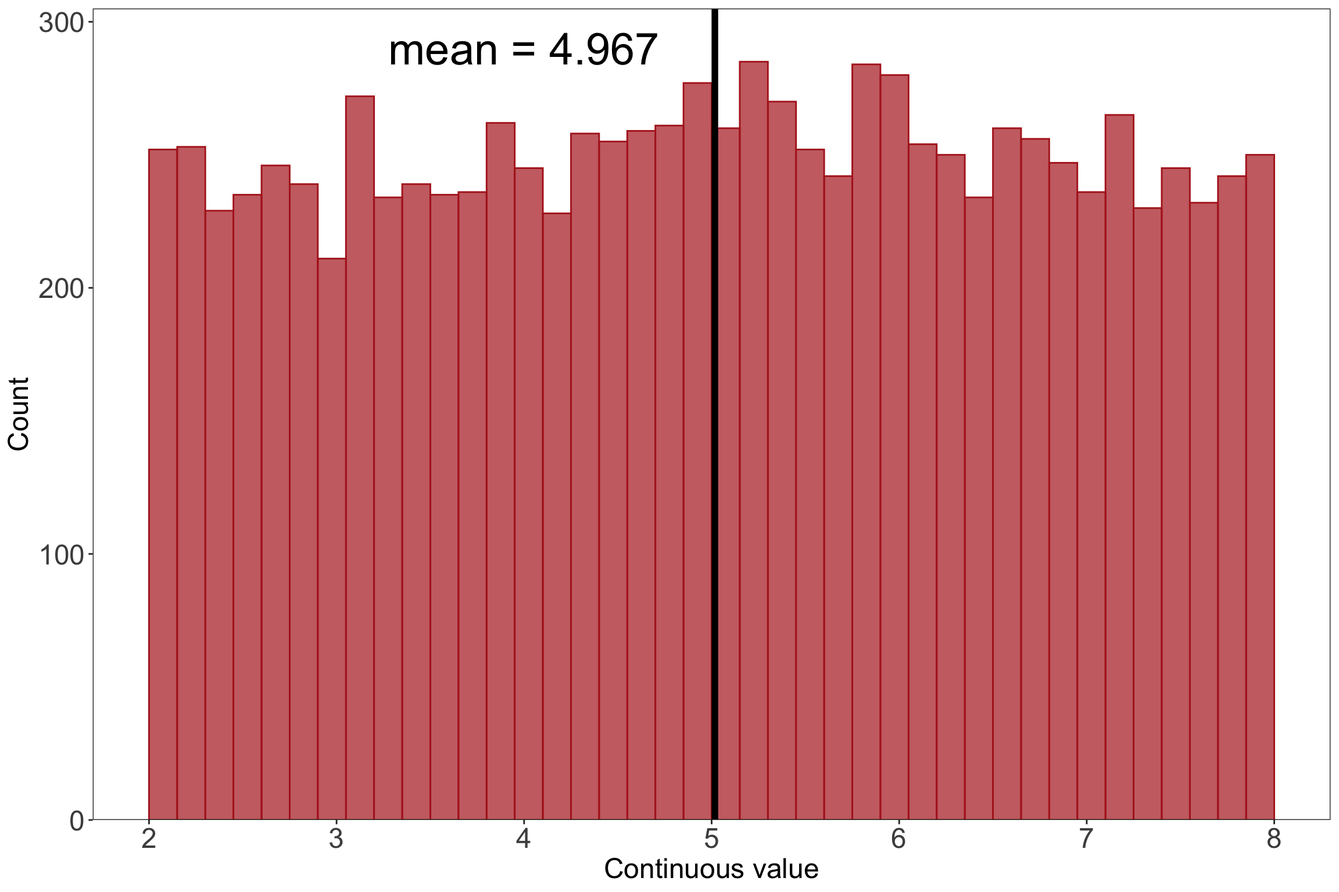
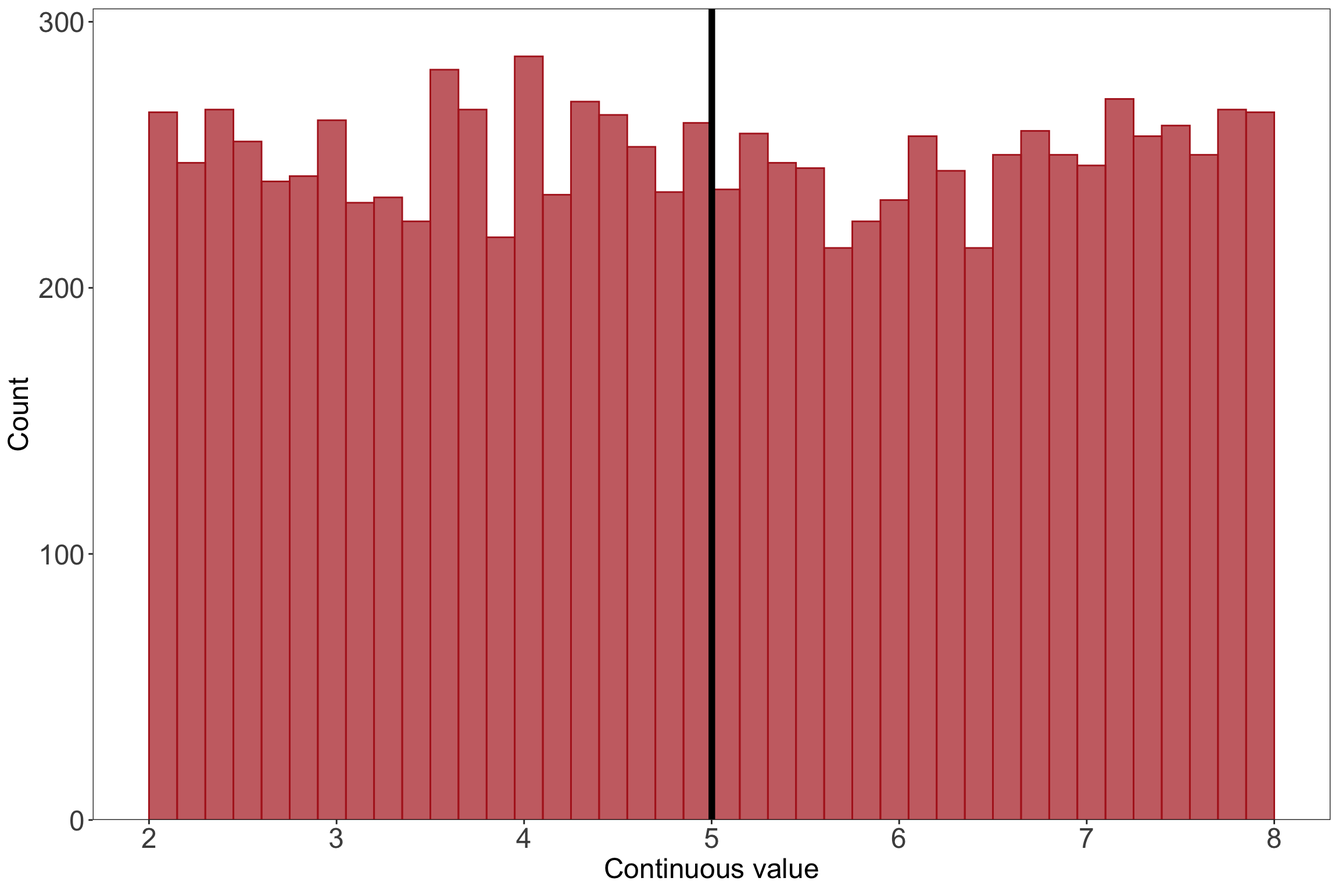
updating steps

Changed region(s): [[0.0938, 0.0312, 0.9688, 0.3125], [0.7188, 0.2188, 0.75, 0.2812], [0.8125, 0.0938, 0.8438, 0.125]]

diff --git a/docs/assignments/optional-problem-01.html b/docs/assignments/optional-problem-01.html
@@ -218,7 +218,9 @@ pre > code.sourceCode > span > a:first-child::before { text-decoration: underlin
 <ol type="1">
 <li>Create a script or Quarto document to work in.<br>
 </li>
-<li>Copy/paste the code in the Set up code chunk into your script.<br>
+<li>Copy/paste the code in the Set up code chunk into your script. Run the code.<br>
+</li>
+<li>Calculate the population mean. Store this as an object.<br>
 </li>
 <li>Find the function that allows you to “sample” from a vector of numbers. If you don’t know the function, one google search could be “r sample numbers”.<br>
 </li>
@@ -226,7 +228,7 @@ pre > code.sourceCode > span > a:first-child::before { text-decoration: underlin
 </li>
 <li>Calculate the mean every time you take a sample. Store each mean in a list.<br>
 </li>
-<li>Create a histogram of your sample means.<br>
+<li>Create a histogram of your sample means using the list from step 6.<br>
 </li>
 <li>Repeat steps 2-5 for n = 15, and n = 30.</li>
 </ol>
@@ -240,7 +242,7 @@ pre > code.sourceCode > span > a:first-child::before { text-decoration: underlin
 </div>
 </div>
 <div class="callout-body-container callout-body">
-<p>Doing repetitive tasks like steps 4-5 can get tiresome. For that, you can write what’s called a <code>for()</code> loop. One resource for writing <code>for()</code> loops is in the <a href="https://r4ds.had.co.nz/iteration.html">chapter on Iteration</a> in <em>R for Data Science</em>.</p>
+<p>Doing repetitive tasks like steps 5-6 can get tiresome. For that, you can write what’s called a <code>for()</code> loop. One resource for writing <code>for()</code> loops is in the <a href="https://r4ds.had.co.nz/iteration.html">chapter on Iteration</a> in <em>R for Data Science</em>.</p>
 <p>If you write a <code>for()</code> loop, you can resample your population way more times than 20. Try resampling 100 times.</p>
 </div>
 </div>
@@ -262,24 +264,26 @@ pre > code.sourceCode > span > a:first-child::before { text-decoration: underlin
 ✖ dplyr::lag()    masks stats::lag()
 ℹ Use the conflicted package (&lt;http://conflicted.r-lib.org/&gt;) to force all conflicts to become errors</code></pre>
 </div>
-<div class="sourceCode cell-code" id="cb3"><pre class="sourceCode r code-with-copy"><code class="sourceCode r"><span id="cb3-1"><a href="#cb3-1" aria-hidden="true" tabindex="-1"></a><span class="co"># generate 10000 numbers from a uniform distribution for the population</span></span>
-<span id="cb3-2"><a href="#cb3-2" aria-hidden="true" tabindex="-1"></a>uniform <span class="ot">&lt;-</span> <span class="fu">runif</span>(<span class="dv">10000</span>, <span class="at">min =</span> <span class="dv">2</span>, <span class="at">max =</span> <span class="dv">8</span>)</span>
+<div class="sourceCode cell-code" id="cb3"><pre class="sourceCode r code-with-copy"><code class="sourceCode r"><span id="cb3-1"><a href="#cb3-1" aria-hidden="true" tabindex="-1"></a><span class="co"># set seed: makes sure the "random" generation comes up with the same combination of numbers every time</span></span>
+<span id="cb3-2"><a href="#cb3-2" aria-hidden="true" tabindex="-1"></a><span class="fu">set.seed</span>(<span class="dv">1</span>)</span>
 <span id="cb3-3"><a href="#cb3-3" aria-hidden="true" tabindex="-1"></a></span>
-<span id="cb3-4"><a href="#cb3-4" aria-hidden="true" tabindex="-1"></a><span class="co"># turn the vector into a data frame</span></span>
-<span id="cb3-5"><a href="#cb3-5" aria-hidden="true" tabindex="-1"></a>uniformdf <span class="ot">&lt;-</span> <span class="fu">as.data.frame</span>(uniform)</span>
+<span id="cb3-4"><a href="#cb3-4" aria-hidden="true" tabindex="-1"></a><span class="co"># generate 10000 numbers from a uniform distribution for the population</span></span>
+<span id="cb3-5"><a href="#cb3-5" aria-hidden="true" tabindex="-1"></a>uniform <span class="ot">&lt;-</span> <span class="fu">runif</span>(<span class="dv">10000</span>, <span class="at">min =</span> <span class="dv">2</span>, <span class="at">max =</span> <span class="dv">8</span>)</span>
 <span id="cb3-6"><a href="#cb3-6" aria-hidden="true" tabindex="-1"></a></span>
-<span id="cb3-7"><a href="#cb3-7" aria-hidden="true" tabindex="-1"></a><span class="co"># make a histogram for the population</span></span>
-<span id="cb3-8"><a href="#cb3-8" aria-hidden="true" tabindex="-1"></a><span class="fu">ggplot</span>(uniformdf, <span class="fu">aes</span>(<span class="at">x =</span> uniform)) <span class="sc">+</span></span>
-<span id="cb3-9"><a href="#cb3-9" aria-hidden="true" tabindex="-1"></a>  <span class="fu">geom_histogram</span>(<span class="at">breaks =</span> <span class="fu">seq</span>(<span class="dv">2</span>, <span class="dv">8</span>, <span class="at">length.out =</span> <span class="dv">41</span>), <span class="at">fill =</span> <span class="st">"firebrick"</span>, <span class="at">alpha =</span> <span class="fl">0.7</span>, <span class="at">color =</span> <span class="st">"firebrick"</span>) <span class="sc">+</span></span>
-<span id="cb3-10"><a href="#cb3-10" aria-hidden="true" tabindex="-1"></a>  <span class="fu">geom_vline</span>(<span class="at">xintercept =</span> <span class="fu">mean</span>(uniform), <span class="at">linewidth =</span> <span class="dv">2</span>) <span class="sc">+</span></span>
-<span id="cb3-11"><a href="#cb3-11" aria-hidden="true" tabindex="-1"></a>  <span class="fu">annotate</span>(<span class="st">"text"</span>, <span class="at">x =</span> <span class="dv">4</span>, <span class="at">y =</span> <span class="dv">290</span>, <span class="at">label =</span> <span class="st">"mean = 4.967"</span>, <span class="at">size =</span> <span class="dv">10</span>) <span class="sc">+</span></span>
-<span id="cb3-12"><a href="#cb3-12" aria-hidden="true" tabindex="-1"></a>  <span class="fu">scale_x_continuous</span>(<span class="at">breaks =</span> <span class="fu">seq</span>(<span class="at">from =</span> <span class="dv">2</span>, <span class="at">to =</span> <span class="dv">8</span>, <span class="at">by =</span> <span class="dv">1</span>)) <span class="sc">+</span></span>
-<span id="cb3-13"><a href="#cb3-13" aria-hidden="true" tabindex="-1"></a>  <span class="fu">scale_y_continuous</span>(<span class="at">expand =</span> <span class="fu">c</span>(<span class="dv">0</span>, <span class="dv">0</span>), <span class="at">limits =</span> <span class="fu">c</span>(<span class="dv">0</span>, <span class="dv">305</span>)) <span class="sc">+</span></span>
-<span id="cb3-14"><a href="#cb3-14" aria-hidden="true" tabindex="-1"></a>  <span class="fu">labs</span>(<span class="at">x =</span> <span class="st">"Continuous value"</span>, <span class="at">y =</span> <span class="st">"Count"</span>) <span class="sc">+</span></span>
-<span id="cb3-15"><a href="#cb3-15" aria-hidden="true" tabindex="-1"></a>  <span class="fu">theme_bw</span>() <span class="sc">+</span></span>
-<span id="cb3-16"><a href="#cb3-16" aria-hidden="true" tabindex="-1"></a>  <span class="fu">theme</span>(<span class="at">panel.grid =</span> <span class="fu">element_blank</span>(),</span>
-<span id="cb3-17"><a href="#cb3-17" aria-hidden="true" tabindex="-1"></a>        <span class="at">axis.text =</span> <span class="fu">element_text</span>(<span class="at">size =</span> <span class="dv">18</span>),</span>
-<span id="cb3-18"><a href="#cb3-18" aria-hidden="true" tabindex="-1"></a>        <span class="at">axis.title =</span> <span class="fu">element_text</span>(<span class="at">size =</span> <span class="dv">18</span>))</span></code><button title="Copy to Clipboard" class="code-copy-button"><i class="bi"></i></button></pre></div>
+<span id="cb3-7"><a href="#cb3-7" aria-hidden="true" tabindex="-1"></a><span class="co"># turn the vector into a data frame</span></span>
+<span id="cb3-8"><a href="#cb3-8" aria-hidden="true" tabindex="-1"></a>uniformdf <span class="ot">&lt;-</span> <span class="fu">as.data.frame</span>(uniform)</span>
+<span id="cb3-9"><a href="#cb3-9" aria-hidden="true" tabindex="-1"></a></span>
+<span id="cb3-10"><a href="#cb3-10" aria-hidden="true" tabindex="-1"></a><span class="co"># make a histogram for the population</span></span>
+<span id="cb3-11"><a href="#cb3-11" aria-hidden="true" tabindex="-1"></a><span class="fu">ggplot</span>(uniformdf, <span class="fu">aes</span>(<span class="at">x =</span> uniform)) <span class="sc">+</span></span>
+<span id="cb3-12"><a href="#cb3-12" aria-hidden="true" tabindex="-1"></a>  <span class="fu">geom_histogram</span>(<span class="at">breaks =</span> <span class="fu">seq</span>(<span class="dv">2</span>, <span class="dv">8</span>, <span class="at">length.out =</span> <span class="dv">41</span>), <span class="at">fill =</span> <span class="st">"firebrick"</span>, <span class="at">alpha =</span> <span class="fl">0.7</span>, <span class="at">color =</span> <span class="st">"firebrick"</span>) <span class="sc">+</span></span>
+<span id="cb3-13"><a href="#cb3-13" aria-hidden="true" tabindex="-1"></a>  <span class="fu">geom_vline</span>(<span class="at">xintercept =</span> <span class="fu">mean</span>(uniform), <span class="at">linewidth =</span> <span class="dv">2</span>) <span class="sc">+</span></span>
+<span id="cb3-14"><a href="#cb3-14" aria-hidden="true" tabindex="-1"></a>  <span class="fu">scale_x_continuous</span>(<span class="at">breaks =</span> <span class="fu">seq</span>(<span class="at">from =</span> <span class="dv">2</span>, <span class="at">to =</span> <span class="dv">8</span>, <span class="at">by =</span> <span class="dv">1</span>)) <span class="sc">+</span></span>
+<span id="cb3-15"><a href="#cb3-15" aria-hidden="true" tabindex="-1"></a>  <span class="fu">scale_y_continuous</span>(<span class="at">expand =</span> <span class="fu">c</span>(<span class="dv">0</span>, <span class="dv">0</span>), <span class="at">limits =</span> <span class="fu">c</span>(<span class="dv">0</span>, <span class="dv">305</span>)) <span class="sc">+</span></span>
+<span id="cb3-16"><a href="#cb3-16" aria-hidden="true" tabindex="-1"></a>  <span class="fu">labs</span>(<span class="at">x =</span> <span class="st">"Continuous value"</span>, <span class="at">y =</span> <span class="st">"Count"</span>) <span class="sc">+</span></span>
+<span id="cb3-17"><a href="#cb3-17" aria-hidden="true" tabindex="-1"></a>  <span class="fu">theme_bw</span>() <span class="sc">+</span></span>
+<span id="cb3-18"><a href="#cb3-18" aria-hidden="true" tabindex="-1"></a>  <span class="fu">theme</span>(<span class="at">panel.grid =</span> <span class="fu">element_blank</span>(),</span>
+<span id="cb3-19"><a href="#cb3-19" aria-hidden="true" tabindex="-1"></a>        <span class="at">axis.text =</span> <span class="fu">element_text</span>(<span class="at">size =</span> <span class="dv">18</span>),</span>
+<span id="cb3-20"><a href="#cb3-20" aria-hidden="true" tabindex="-1"></a>        <span class="at">axis.title =</span> <span class="fu">element_text</span>(<span class="at">size =</span> <span class="dv">18</span>))</span></code><button title="Copy to Clipboard" class="code-copy-button"><i class="bi"></i></button></pre></div>
 <div class="cell-output-display">
 <div>
 <figure class="figure">
@@ -776,51 +780,54 @@ window.document.addEventListener("DOMContentLoaded", function (event) {
 <span id="cb4-18"><a href="#cb4-18" aria-hidden="true" tabindex="-1"></a><span class="fu">### a. Steps</span></span>
 <span id="cb4-19"><a href="#cb4-19" aria-hidden="true" tabindex="-1"></a></span>
 <span id="cb4-20"><a href="#cb4-20" aria-hidden="true" tabindex="-1"></a><span class="ss">1. </span>Create a script or Quarto document to work in.  </span>
-<span id="cb4-21"><a href="#cb4-21" aria-hidden="true" tabindex="-1"></a><span class="ss">2. </span>Copy/paste the code in the Set up code chunk into your script.  </span>
-<span id="cb4-22"><a href="#cb4-22" aria-hidden="true" tabindex="-1"></a><span class="ss">3. </span>Find the function that allows you to "sample" from a vector of numbers. If you don't know the function, one google search could be "r sample numbers".  </span>
-<span id="cb4-23"><a href="#cb4-23" aria-hidden="true" tabindex="-1"></a><span class="ss">4. </span>Resample (i.e. take a sample multiple times) 20 times from the population, taking a sample of n = 2 each time.  </span>
-<span id="cb4-24"><a href="#cb4-24" aria-hidden="true" tabindex="-1"></a><span class="ss">5. </span>Calculate the mean every time you take a sample. Store each mean in a list.  </span>
-<span id="cb4-25"><a href="#cb4-25" aria-hidden="true" tabindex="-1"></a><span class="ss">6. </span>Create a histogram of your sample means.  </span>
-<span id="cb4-26"><a href="#cb4-26" aria-hidden="true" tabindex="-1"></a><span class="ss">7. </span>Repeat steps 2-5 for n = 15, and n = 30.</span>
-<span id="cb4-27"><a href="#cb4-27" aria-hidden="true" tabindex="-1"></a></span>
-<span id="cb4-28"><a href="#cb4-28" aria-hidden="true" tabindex="-1"></a>:::{.callout-tip}</span>
-<span id="cb4-29"><a href="#cb4-29" aria-hidden="true" tabindex="-1"></a><span class="fu"># `for()` loops</span></span>
-<span id="cb4-30"><a href="#cb4-30" aria-hidden="true" tabindex="-1"></a></span>
-<span id="cb4-31"><a href="#cb4-31" aria-hidden="true" tabindex="-1"></a>Doing repetitive tasks like steps 4-5 can get tiresome. For that, you can write what's called a <span class="in">`for()`</span> loop. One resource for writing <span class="in">`for()`</span> loops is in the <span class="co">[</span><span class="ot">chapter on Iteration</span><span class="co">](https://r4ds.had.co.nz/iteration.html)</span> in _R for Data Science_.  </span>
-<span id="cb4-32"><a href="#cb4-32" aria-hidden="true" tabindex="-1"></a></span>
-<span id="cb4-33"><a href="#cb4-33" aria-hidden="true" tabindex="-1"></a>If you write a <span class="in">`for()`</span> loop, you can resample your population way more times than 20. Try resampling 100 times.</span>
-<span id="cb4-34"><a href="#cb4-34" aria-hidden="true" tabindex="-1"></a>:::</span>
-<span id="cb4-35"><a href="#cb4-35" aria-hidden="true" tabindex="-1"></a></span>
-<span id="cb4-36"><a href="#cb4-36" aria-hidden="true" tabindex="-1"></a><span class="fu">### b. Set up code</span></span>
-<span id="cb4-37"><a href="#cb4-37" aria-hidden="true" tabindex="-1"></a></span>
-<span id="cb4-40"><a href="#cb4-40" aria-hidden="true" tabindex="-1"></a><span class="in">```{r}</span></span>
-<span id="cb4-41"><a href="#cb4-41" aria-hidden="true" tabindex="-1"></a><span class="co">#| fig-width: 12</span></span>
-<span id="cb4-42"><a href="#cb4-42" aria-hidden="true" tabindex="-1"></a><span class="co">#| fig-height: 8</span></span>
-<span id="cb4-43"><a href="#cb4-43" aria-hidden="true" tabindex="-1"></a></span>
-<span id="cb4-44"><a href="#cb4-44" aria-hidden="true" tabindex="-1"></a><span class="co"># read in the tidyverse</span></span>
-<span id="cb4-45"><a href="#cb4-45" aria-hidden="true" tabindex="-1"></a><span class="fu">library</span>(tidyverse)</span>
-<span id="cb4-46"><a href="#cb4-46" aria-hidden="true" tabindex="-1"></a></span>
-<span id="cb4-47"><a href="#cb4-47" aria-hidden="true" tabindex="-1"></a><span class="co"># generate 10000 numbers from a uniform distribution for the population</span></span>
-<span id="cb4-48"><a href="#cb4-48" aria-hidden="true" tabindex="-1"></a>uniform <span class="ot">&lt;-</span> <span class="fu">runif</span>(<span class="dv">10000</span>, <span class="at">min =</span> <span class="dv">2</span>, <span class="at">max =</span> <span class="dv">8</span>)</span>
-<span id="cb4-49"><a href="#cb4-49" aria-hidden="true" tabindex="-1"></a></span>
-<span id="cb4-50"><a href="#cb4-50" aria-hidden="true" tabindex="-1"></a><span class="co"># turn the vector into a data frame</span></span>
-<span id="cb4-51"><a href="#cb4-51" aria-hidden="true" tabindex="-1"></a>uniformdf <span class="ot">&lt;-</span> <span class="fu">as.data.frame</span>(uniform)</span>
-<span id="cb4-52"><a href="#cb4-52" aria-hidden="true" tabindex="-1"></a></span>
-<span id="cb4-53"><a href="#cb4-53" aria-hidden="true" tabindex="-1"></a><span class="co"># make a histogram for the population</span></span>
-<span id="cb4-54"><a href="#cb4-54" aria-hidden="true" tabindex="-1"></a><span class="fu">ggplot</span>(uniformdf, <span class="fu">aes</span>(<span class="at">x =</span> uniform)) <span class="sc">+</span></span>
-<span id="cb4-55"><a href="#cb4-55" aria-hidden="true" tabindex="-1"></a>  <span class="fu">geom_histogram</span>(<span class="at">breaks =</span> <span class="fu">seq</span>(<span class="dv">2</span>, <span class="dv">8</span>, <span class="at">length.out =</span> <span class="dv">41</span>), <span class="at">fill =</span> <span class="st">"firebrick"</span>, <span class="at">alpha =</span> <span class="fl">0.7</span>, <span class="at">color =</span> <span class="st">"firebrick"</span>) <span class="sc">+</span></span>
-<span id="cb4-56"><a href="#cb4-56" aria-hidden="true" tabindex="-1"></a>  <span class="fu">geom_vline</span>(<span class="at">xintercept =</span> <span class="fu">mean</span>(uniform), <span class="at">linewidth =</span> <span class="dv">2</span>) <span class="sc">+</span></span>
-<span id="cb4-57"><a href="#cb4-57" aria-hidden="true" tabindex="-1"></a>  <span class="fu">annotate</span>(<span class="st">"text"</span>, <span class="at">x =</span> <span class="dv">4</span>, <span class="at">y =</span> <span class="dv">290</span>, <span class="at">label =</span> <span class="st">"mean = 4.967"</span>, <span class="at">size =</span> <span class="dv">10</span>) <span class="sc">+</span></span>
-<span id="cb4-58"><a href="#cb4-58" aria-hidden="true" tabindex="-1"></a>  <span class="fu">scale_x_continuous</span>(<span class="at">breaks =</span> <span class="fu">seq</span>(<span class="at">from =</span> <span class="dv">2</span>, <span class="at">to =</span> <span class="dv">8</span>, <span class="at">by =</span> <span class="dv">1</span>)) <span class="sc">+</span></span>
-<span id="cb4-59"><a href="#cb4-59" aria-hidden="true" tabindex="-1"></a>  <span class="fu">scale_y_continuous</span>(<span class="at">expand =</span> <span class="fu">c</span>(<span class="dv">0</span>, <span class="dv">0</span>), <span class="at">limits =</span> <span class="fu">c</span>(<span class="dv">0</span>, <span class="dv">305</span>)) <span class="sc">+</span></span>
-<span id="cb4-60"><a href="#cb4-60" aria-hidden="true" tabindex="-1"></a>  <span class="fu">labs</span>(<span class="at">x =</span> <span class="st">"Continuous value"</span>, <span class="at">y =</span> <span class="st">"Count"</span>) <span class="sc">+</span></span>
-<span id="cb4-61"><a href="#cb4-61" aria-hidden="true" tabindex="-1"></a>  <span class="fu">theme_bw</span>() <span class="sc">+</span></span>
-<span id="cb4-62"><a href="#cb4-62" aria-hidden="true" tabindex="-1"></a>  <span class="fu">theme</span>(<span class="at">panel.grid =</span> <span class="fu">element_blank</span>(),</span>
-<span id="cb4-63"><a href="#cb4-63" aria-hidden="true" tabindex="-1"></a>        <span class="at">axis.text =</span> <span class="fu">element_text</span>(<span class="at">size =</span> <span class="dv">18</span>),</span>
-<span id="cb4-64"><a href="#cb4-64" aria-hidden="true" tabindex="-1"></a>        <span class="at">axis.title =</span> <span class="fu">element_text</span>(<span class="at">size =</span> <span class="dv">18</span>))</span>
-<span id="cb4-65"><a href="#cb4-65" aria-hidden="true" tabindex="-1"></a><span class="in">```</span></span>
-<span id="cb4-66"><a href="#cb4-66" aria-hidden="true" tabindex="-1"></a></span>
-<span id="cb4-67"><a href="#cb4-67" aria-hidden="true" tabindex="-1"></a></span>
+<span id="cb4-21"><a href="#cb4-21" aria-hidden="true" tabindex="-1"></a><span class="ss">2. </span>Copy/paste the code in the Set up code chunk into your script. Run the code.  </span>
+<span id="cb4-22"><a href="#cb4-22" aria-hidden="true" tabindex="-1"></a><span class="ss">3. </span>Calculate the population mean. Store this as an object.  </span>
+<span id="cb4-23"><a href="#cb4-23" aria-hidden="true" tabindex="-1"></a><span class="ss">4. </span>Find the function that allows you to "sample" from a vector of numbers. If you don't know the function, one google search could be "r sample numbers".  </span>
+<span id="cb4-24"><a href="#cb4-24" aria-hidden="true" tabindex="-1"></a><span class="ss">5. </span>Resample (i.e. take a sample multiple times) 20 times from the population, taking a sample of n = 2 each time.  </span>
+<span id="cb4-25"><a href="#cb4-25" aria-hidden="true" tabindex="-1"></a><span class="ss">6. </span>Calculate the mean every time you take a sample. Store each mean in a list.  </span>
+<span id="cb4-26"><a href="#cb4-26" aria-hidden="true" tabindex="-1"></a><span class="ss">7. </span>Create a histogram of your sample means using the list from step 6.  </span>
+<span id="cb4-27"><a href="#cb4-27" aria-hidden="true" tabindex="-1"></a><span class="ss">8. </span>Repeat steps 2-5 for n = 15, and n = 30.</span>
+<span id="cb4-28"><a href="#cb4-28" aria-hidden="true" tabindex="-1"></a></span>
+<span id="cb4-29"><a href="#cb4-29" aria-hidden="true" tabindex="-1"></a>:::{.callout-tip}</span>
+<span id="cb4-30"><a href="#cb4-30" aria-hidden="true" tabindex="-1"></a><span class="fu"># `for()` loops</span></span>
+<span id="cb4-31"><a href="#cb4-31" aria-hidden="true" tabindex="-1"></a></span>
+<span id="cb4-32"><a href="#cb4-32" aria-hidden="true" tabindex="-1"></a>Doing repetitive tasks like steps 5-6 can get tiresome. For that, you can write what's called a <span class="in">`for()`</span> loop. One resource for writing <span class="in">`for()`</span> loops is in the <span class="co">[</span><span class="ot">chapter on Iteration</span><span class="co">](https://r4ds.had.co.nz/iteration.html)</span> in _R for Data Science_.  </span>
+<span id="cb4-33"><a href="#cb4-33" aria-hidden="true" tabindex="-1"></a></span>
+<span id="cb4-34"><a href="#cb4-34" aria-hidden="true" tabindex="-1"></a>If you write a <span class="in">`for()`</span> loop, you can resample your population way more times than 20. Try resampling 100 times.</span>
+<span id="cb4-35"><a href="#cb4-35" aria-hidden="true" tabindex="-1"></a>:::</span>
+<span id="cb4-36"><a href="#cb4-36" aria-hidden="true" tabindex="-1"></a></span>
+<span id="cb4-37"><a href="#cb4-37" aria-hidden="true" tabindex="-1"></a><span class="fu">### b. Set up code</span></span>
+<span id="cb4-38"><a href="#cb4-38" aria-hidden="true" tabindex="-1"></a></span>
+<span id="cb4-41"><a href="#cb4-41" aria-hidden="true" tabindex="-1"></a><span class="in">```{r}</span></span>
+<span id="cb4-42"><a href="#cb4-42" aria-hidden="true" tabindex="-1"></a><span class="co">#| fig-width: 12</span></span>
+<span id="cb4-43"><a href="#cb4-43" aria-hidden="true" tabindex="-1"></a><span class="co">#| fig-height: 8</span></span>
+<span id="cb4-44"><a href="#cb4-44" aria-hidden="true" tabindex="-1"></a></span>
+<span id="cb4-45"><a href="#cb4-45" aria-hidden="true" tabindex="-1"></a><span class="co"># read in the tidyverse</span></span>
+<span id="cb4-46"><a href="#cb4-46" aria-hidden="true" tabindex="-1"></a><span class="fu">library</span>(tidyverse)</span>
+<span id="cb4-47"><a href="#cb4-47" aria-hidden="true" tabindex="-1"></a></span>
+<span id="cb4-48"><a href="#cb4-48" aria-hidden="true" tabindex="-1"></a><span class="co"># set seed: makes sure the "random" generation comes up with the same combination of numbers every time</span></span>
+<span id="cb4-49"><a href="#cb4-49" aria-hidden="true" tabindex="-1"></a><span class="fu">set.seed</span>(<span class="dv">1</span>)</span>
+<span id="cb4-50"><a href="#cb4-50" aria-hidden="true" tabindex="-1"></a></span>
+<span id="cb4-51"><a href="#cb4-51" aria-hidden="true" tabindex="-1"></a><span class="co"># generate 10000 numbers from a uniform distribution for the population</span></span>
+<span id="cb4-52"><a href="#cb4-52" aria-hidden="true" tabindex="-1"></a>uniform <span class="ot">&lt;-</span> <span class="fu">runif</span>(<span class="dv">10000</span>, <span class="at">min =</span> <span class="dv">2</span>, <span class="at">max =</span> <span class="dv">8</span>)</span>
+<span id="cb4-53"><a href="#cb4-53" aria-hidden="true" tabindex="-1"></a></span>
+<span id="cb4-54"><a href="#cb4-54" aria-hidden="true" tabindex="-1"></a><span class="co"># turn the vector into a data frame</span></span>
+<span id="cb4-55"><a href="#cb4-55" aria-hidden="true" tabindex="-1"></a>uniformdf <span class="ot">&lt;-</span> <span class="fu">as.data.frame</span>(uniform)</span>
+<span id="cb4-56"><a href="#cb4-56" aria-hidden="true" tabindex="-1"></a></span>
+<span id="cb4-57"><a href="#cb4-57" aria-hidden="true" tabindex="-1"></a><span class="co"># make a histogram for the population</span></span>
+<span id="cb4-58"><a href="#cb4-58" aria-hidden="true" tabindex="-1"></a><span class="fu">ggplot</span>(uniformdf, <span class="fu">aes</span>(<span class="at">x =</span> uniform)) <span class="sc">+</span></span>
+<span id="cb4-59"><a href="#cb4-59" aria-hidden="true" tabindex="-1"></a>  <span class="fu">geom_histogram</span>(<span class="at">breaks =</span> <span class="fu">seq</span>(<span class="dv">2</span>, <span class="dv">8</span>, <span class="at">length.out =</span> <span class="dv">41</span>), <span class="at">fill =</span> <span class="st">"firebrick"</span>, <span class="at">alpha =</span> <span class="fl">0.7</span>, <span class="at">color =</span> <span class="st">"firebrick"</span>) <span class="sc">+</span></span>
+<span id="cb4-60"><a href="#cb4-60" aria-hidden="true" tabindex="-1"></a>  <span class="fu">geom_vline</span>(<span class="at">xintercept =</span> <span class="fu">mean</span>(uniform), <span class="at">linewidth =</span> <span class="dv">2</span>) <span class="sc">+</span></span>
+<span id="cb4-61"><a href="#cb4-61" aria-hidden="true" tabindex="-1"></a>  <span class="fu">scale_x_continuous</span>(<span class="at">breaks =</span> <span class="fu">seq</span>(<span class="at">from =</span> <span class="dv">2</span>, <span class="at">to =</span> <span class="dv">8</span>, <span class="at">by =</span> <span class="dv">1</span>)) <span class="sc">+</span></span>
+<span id="cb4-62"><a href="#cb4-62" aria-hidden="true" tabindex="-1"></a>  <span class="fu">scale_y_continuous</span>(<span class="at">expand =</span> <span class="fu">c</span>(<span class="dv">0</span>, <span class="dv">0</span>), <span class="at">limits =</span> <span class="fu">c</span>(<span class="dv">0</span>, <span class="dv">305</span>)) <span class="sc">+</span></span>
+<span id="cb4-63"><a href="#cb4-63" aria-hidden="true" tabindex="-1"></a>  <span class="fu">labs</span>(<span class="at">x =</span> <span class="st">"Continuous value"</span>, <span class="at">y =</span> <span class="st">"Count"</span>) <span class="sc">+</span></span>
+<span id="cb4-64"><a href="#cb4-64" aria-hidden="true" tabindex="-1"></a>  <span class="fu">theme_bw</span>() <span class="sc">+</span></span>
+<span id="cb4-65"><a href="#cb4-65" aria-hidden="true" tabindex="-1"></a>  <span class="fu">theme</span>(<span class="at">panel.grid =</span> <span class="fu">element_blank</span>(),</span>
+<span id="cb4-66"><a href="#cb4-66" aria-hidden="true" tabindex="-1"></a>        <span class="at">axis.text =</span> <span class="fu">element_text</span>(<span class="at">size =</span> <span class="dv">18</span>),</span>
+<span id="cb4-67"><a href="#cb4-67" aria-hidden="true" tabindex="-1"></a>        <span class="at">axis.title =</span> <span class="fu">element_text</span>(<span class="at">size =</span> <span class="dv">18</span>))</span>
+<span id="cb4-68"><a href="#cb4-68" aria-hidden="true" tabindex="-1"></a><span class="in">```</span></span>
+<span id="cb4-69"><a href="#cb4-69" aria-hidden="true" tabindex="-1"></a></span>
+<span id="cb4-70"><a href="#cb4-70" aria-hidden="true" tabindex="-1"></a></span>
 </code><button title="Copy to Clipboard" class="code-copy-button"><i class="bi"></i></button></pre></div>
 </div></div></div></div></div>
 </div> <!-- /content -->

diff --git a/docs/assignments.html b/docs/assignments.html
@@ -311,7 +311,7 @@ window.Quarto = {
 <span class="listing-date">Apr 17, 2024</span>
 </td>
 </tr>
-<tr data-index="3" data-listing-date-sort="1713423600000" data-listing-file-modified-sort="1713229594786" data-listing-date-modified-sort="1713229594000" data-listing-reading-time-sort="3" data-listing-word-count-sort="424" data-listing-title-sort="OPTIONAL practice problem - Central Limit Theorem" data-listing-filename-sort="optional-problem-01.qmd">
+<tr data-index="3" data-listing-date-sort="1713423600000" data-listing-file-modified-sort="1713229769724" data-listing-date-modified-sort="1713229769000" data-listing-reading-time-sort="3" data-listing-word-count-sort="444" data-listing-title-sort="OPTIONAL practice problem - Central Limit Theorem" data-listing-filename-sort="optional-problem-01.qmd">
 <td>
 <a href="./assignments/optional-problem-01.html" class="title listing-title">OPTIONAL practice problem - Central Limit Theorem</a>
 </td>

diff --git a/docs/assignments/getting-set-up.html b/docs/assignments/getting-set-up.html
@@ -925,7 +925,7 @@ window.document.addEventListener("DOMContentLoaded", function (event) {
 <span id="cb1-99"><a href="#cb1-99" aria-hidden="true" tabindex="-1"></a></span></code><button title="Copy to Clipboard" class="code-copy-button"><i class="bi"></i></button></pre></div>
 </div></div></div></div></div>
 </div> <!-- /content -->
-<script>var lightboxQuarto = GLightbox({"descPosition":"bottom","loop":false,"openEffect":"zoom","closeEffect":"zoom","selector":".lightbox"});
+<script>var lightboxQuarto = GLightbox({"descPosition":"bottom","openEffect":"zoom","selector":".lightbox","closeEffect":"zoom","loop":false});
 window.onload = () => {
   lightboxQuarto.on('slide_before_load', (data) => {
     const { slideIndex, slideNode, slideConfig, player, trigger } = data;

diff --git a/docs/index.html b/docs/index.html
@@ -784,7 +784,7 @@ window.document.addEventListener("DOMContentLoaded", function (event) {
 <span id="cb1-73"><a href="#cb1-73" aria-hidden="true" tabindex="-1"></a></span></code><button title="Copy to Clipboard" class="code-copy-button"><i class="bi"></i></button></pre></div>
 </div></div></div></div></div>
 </div> <!-- /content -->
-<script>var lightboxQuarto = GLightbox({"openEffect":"zoom","closeEffect":"zoom","loop":false,"selector":".lightbox","descPosition":"bottom"});
+<script>var lightboxQuarto = GLightbox({"closeEffect":"zoom","selector":".lightbox","openEffect":"zoom","descPosition":"bottom","loop":false});
 window.onload = () => {
   lightboxQuarto.on('slide_before_load', (data) => {
     const { slideIndex, slideNode, slideConfig, player, trigger } = data;

diff --git a/docs/resources/using-virtual-machine.html b/docs/resources/using-virtual-machine.html
@@ -821,7 +821,7 @@ window.document.addEventListener("DOMContentLoaded", function (event) {
 <span id="cb1-85"><a href="#cb1-85" aria-hidden="true" tabindex="-1"></a></span></code><button title="Copy to Clipboard" class="code-copy-button"><i class="bi"></i></button></pre></div>
 </div></div></div></div></div>
 </div> <!-- /content -->
-<script>var lightboxQuarto = GLightbox({"selector":".lightbox","loop":false,"descPosition":"bottom","closeEffect":"zoom","openEffect":"zoom"});
+<script>var lightboxQuarto = GLightbox({"selector":".lightbox","openEffect":"zoom","loop":false,"closeEffect":"zoom","descPosition":"bottom"});
 window.onload = () => {
   lightboxQuarto.on('slide_before_load', (data) => {
     const { slideIndex, slideNode, slideConfig, player, trigger } = data;
